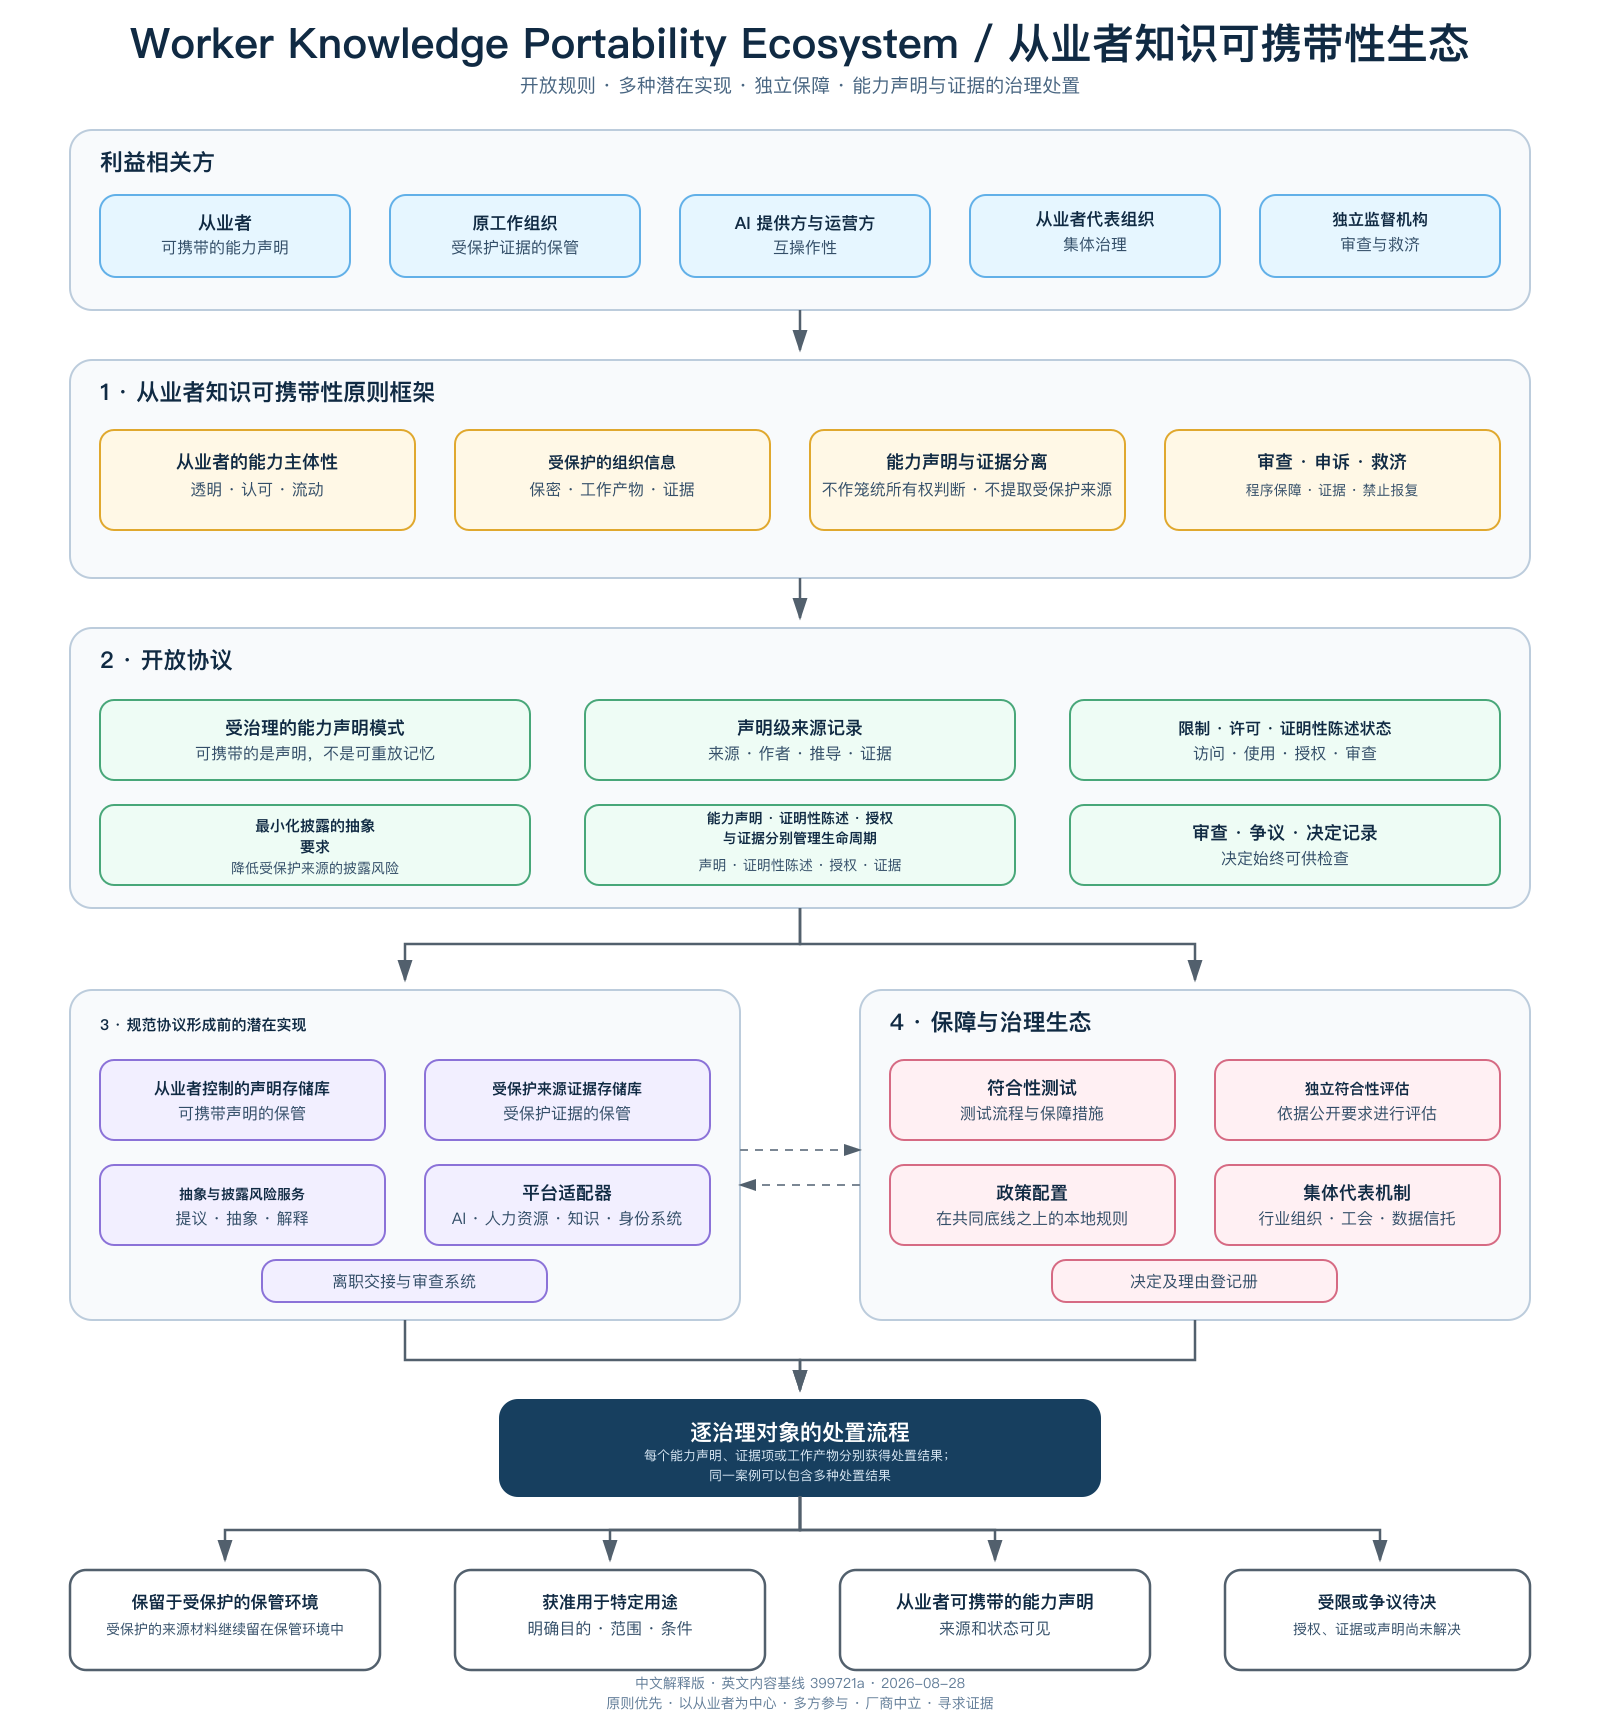
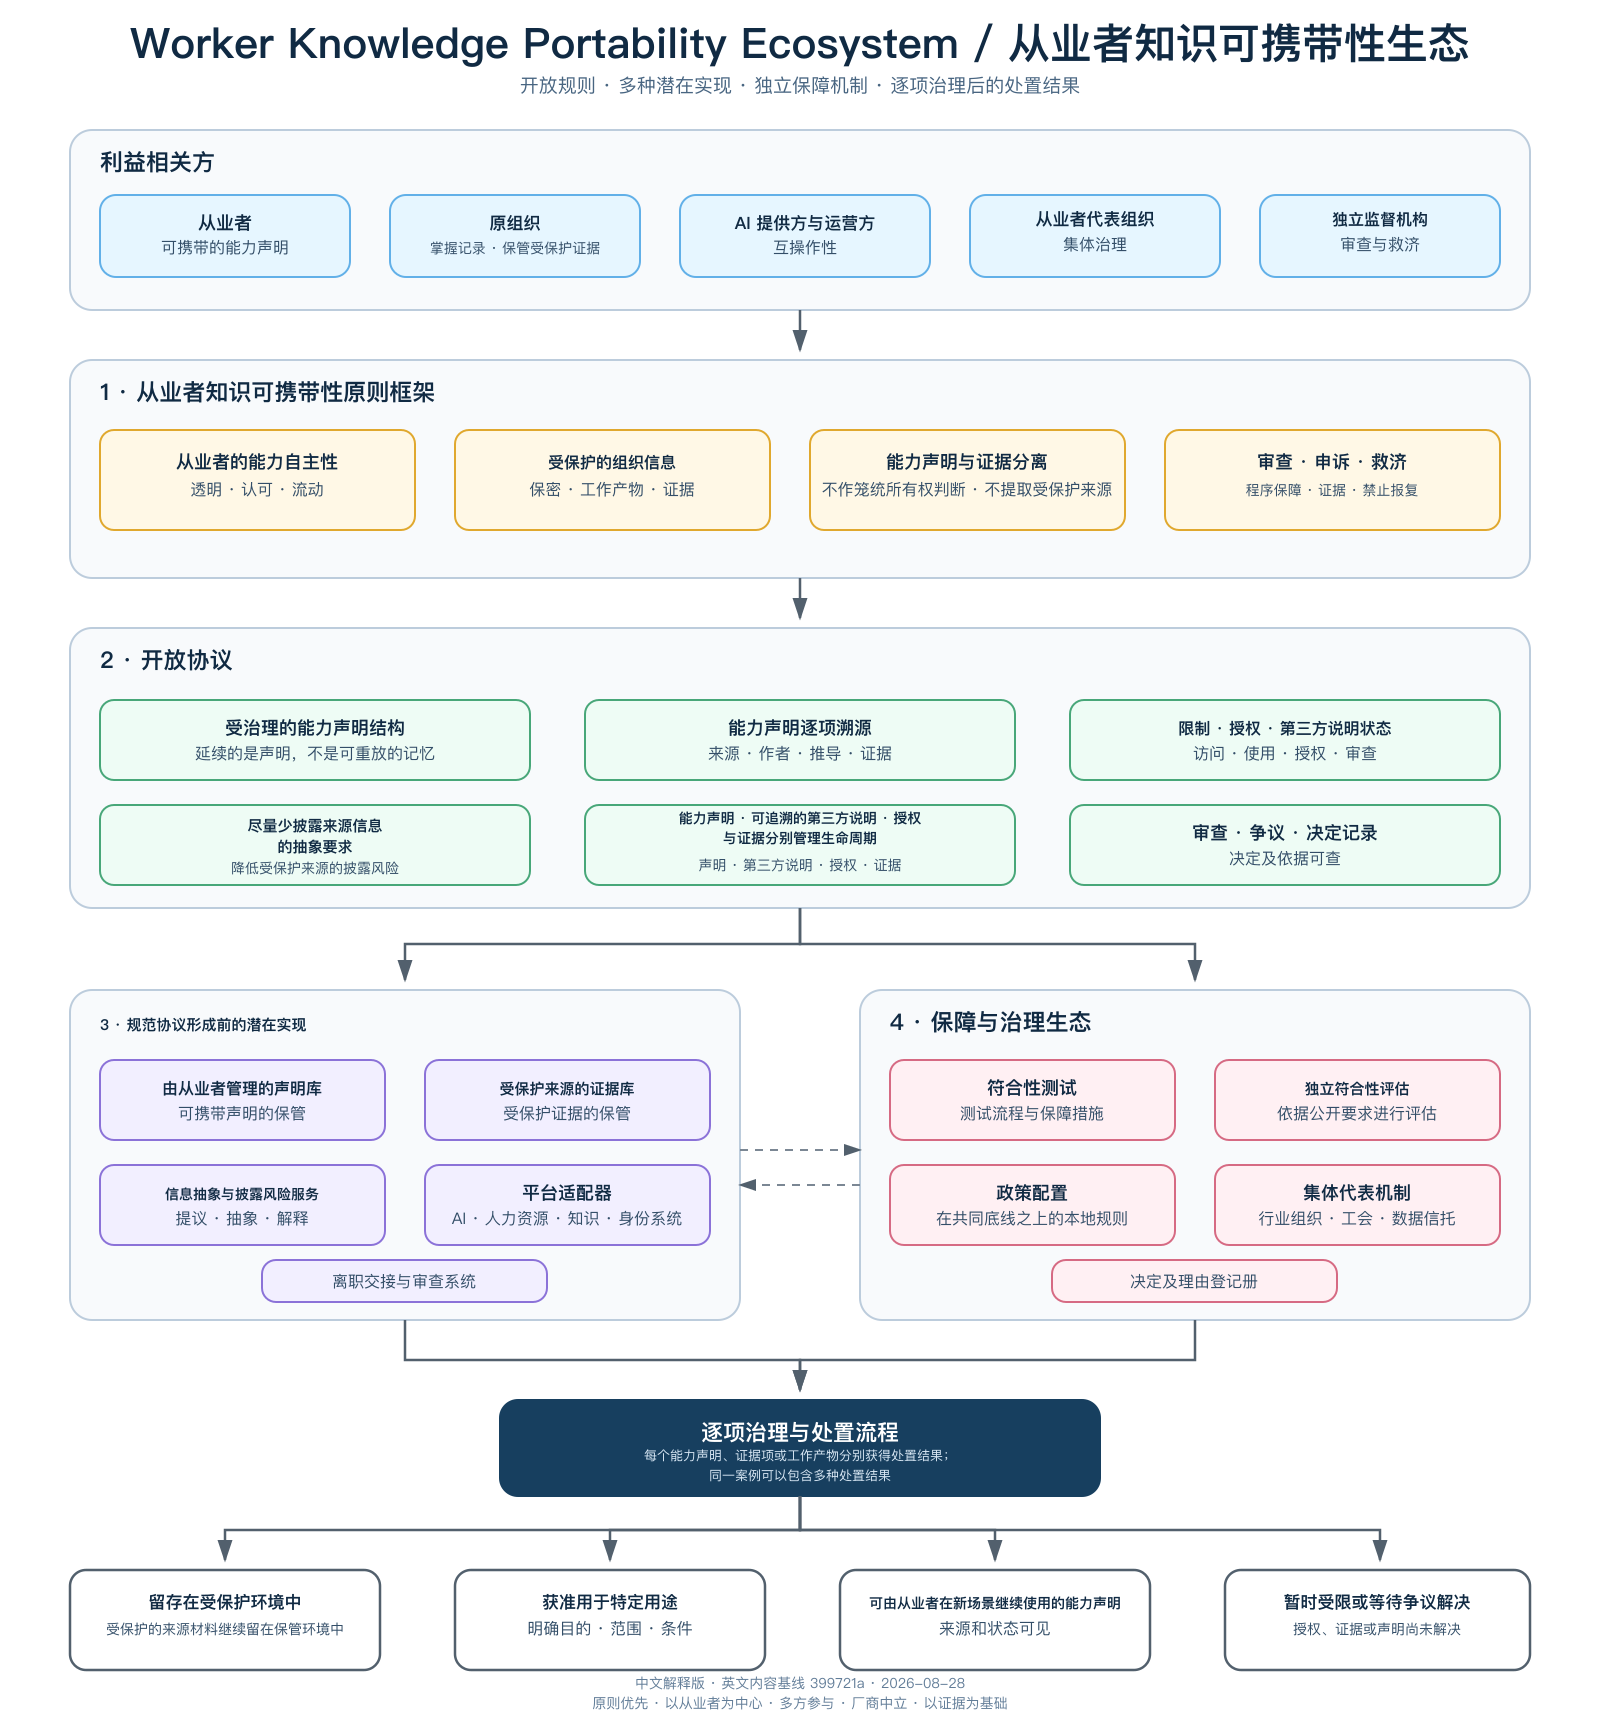
docs: localize Chinese terminology

diff --git a/TERMINOLOGY.zh-CN.md b/TERMINOLOGY.zh-CN.md
@@ -14,15 +14,15 @@
 | Worker Knowledge Portability Charter | 从业者知识可携带性原则框架 | 中文解释性称呼；英文 Charter 仍是项目记录。 |
 | Capability claim | 能力声明 | 关于能力的陈述，不是能力本身，也不自动代表事实或第三方认可。 |
 | Protected source material | 受保护的来源材料 | 受到保密、隐私、知识产权、合同、安全或其他限制的来源材料。 |
-| Originating organization | 原工作组织 | 控制相关工作系统或记录的来源侧组织，可能是雇主、客户、平台、代理机构或其他组织。 |
-| Attestation | 证明性陈述 | 可归因或签署的陈述；不等同于技术核验，也不代表使用目的适配性。 |
+| Originating organization | 原组织 | 指掌握相关工作系统或记录的组织，可能是雇主、客户、平台、代理机构或其他组织；不必然是法律意义上的雇主。 |
+| Attestation | 可追溯的第三方说明 | 由原组织、同事或其他主体作出且能追溯到出具者的说明；不等同于技术核验，也不代表适合特定用途。 |
 | Verification | 技术核验 | 核查作者、完整性、技术有效性和状态；不判断陈述是否真实。 |
-| Relying-party assessment | 使用方评估 | 接收方针对特定目的独立作出的适用性判断。 |
-| Governed disposition | 经治理程序确定的处置结果 | 针对单个能力声明、证据项或工作产物的结果，不是对整个人或整个案例作出的笼统所有权判断。 |
+| Relying-party assessment | 接收方独立评估 | 接收方针对特定用途独立作出的适用性判断。 |
+| Governed disposition | 逐项治理后的处置结果 | 针对单个能力声明、证据项或工作产物分别作出的结果，不是对整个人或整个案例作出的笼统所有权判断。 |
 
-1. **保留于受保护的保管环境** — Retained in protected custody
+1. **留存在受保护环境中** — Retained in protected custody
 2. **获准用于特定用途** — Authorized for specified use
-3. **从业者可携带的能力声明** — Worker-portable claim
-4. **受限或争议待决** — Restricted or pending dispute
+3. **可由从业者在新场景继续使用的能力声明** — Worker-portable claim
+4. **暂时受限或等待争议解决** — Restricted or pending dispute
 
 > 这不是让个人带走公司的知识，也不是让组织在未经治理的情况下永久复制一个人的判断、风格和能力。

diff --git a/CHANGELOG.md b/CHANGELOG.md
@@ -1,5 +1,19 @@
 # Change log
 
+## 0.2.1 Chinese terminology correction — 2026-08-28
+
+- Classified the correction as `controlled_term_error` after reviewing the
+  public Chinese wording before social distribution.
+- Replaced translation-shaped labels for the originating organization,
+  attestation, relying-party assessment, governed disposition, and related
+  diagram components with clearer, more natural Chinese.
+- Aligned the Chinese README, terminology guide, and ecosystem diagram on the
+  same four per-item disposition results.
+- Kept the English baseline, architecture, protocol boundaries, and legal-rights
+  posture unchanged.
+- No social distribution had started; it remains paused until this correction is
+  reviewed and published.
+
 ## 0.2 discussion draft — 2026-08-27
 
 - Added a controlled vocabulary for worker roles, records, claims, evidence,
